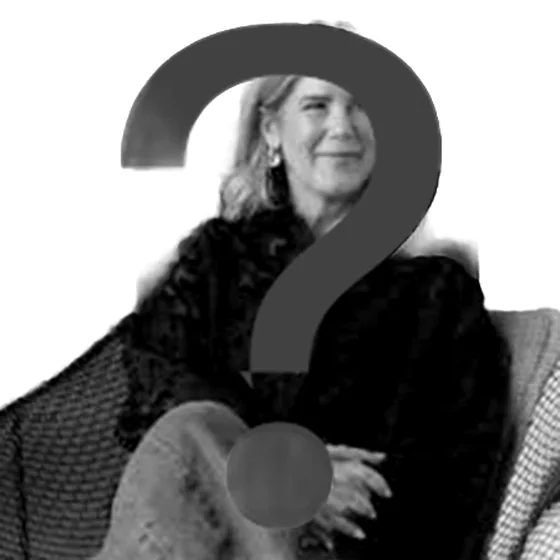
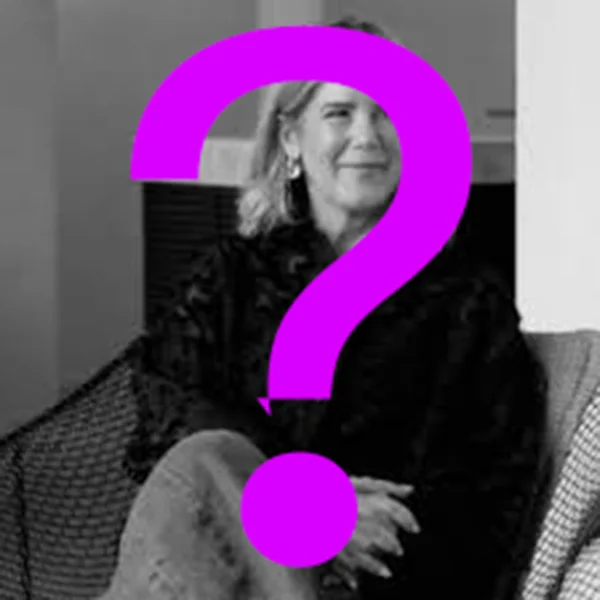
Update Carla Flynn photo, fix Meredith Keys name+photo

diff --git a/staff-data.js b/staff-data.js
@@ -200,12 +200,12 @@ window.STAFF = [
     "image": "assets/staff/kevin-black.webp"
   },
   {
-    "name": "Mededith Keys",
+    "name": "Meredith Keys",
     "position": "Manager Communications and Creative",
     "salary": 210000,
     "salaryLabel": "$210,000",
     "group": "Economic and Engagement",
-    "image": "assets/staff/mededith-keys.webp"
+    "image": "assets/staff/meredith-keys.webp"
   },
   {
     "name": "Michael Nyamudeza",